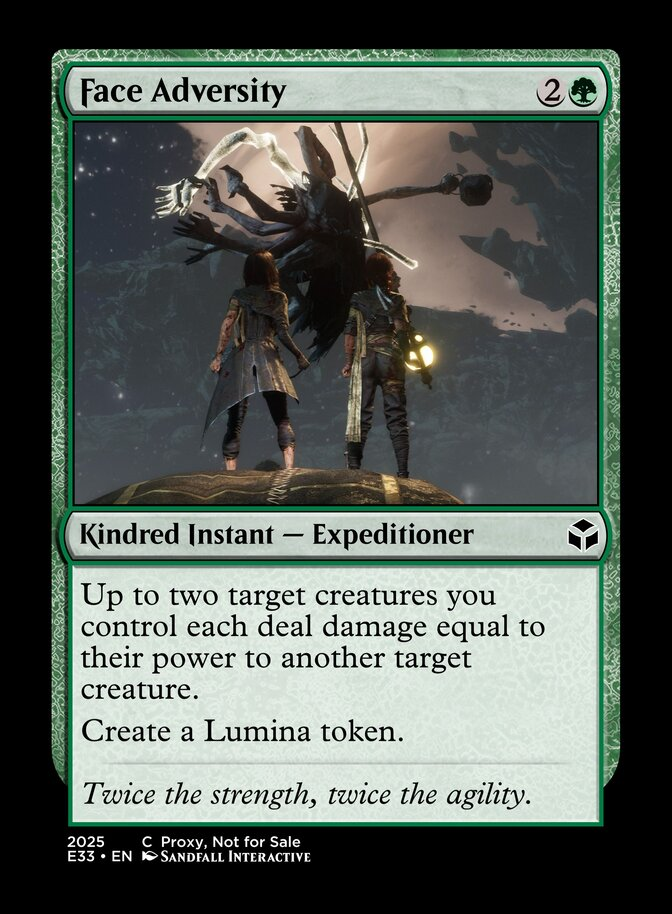
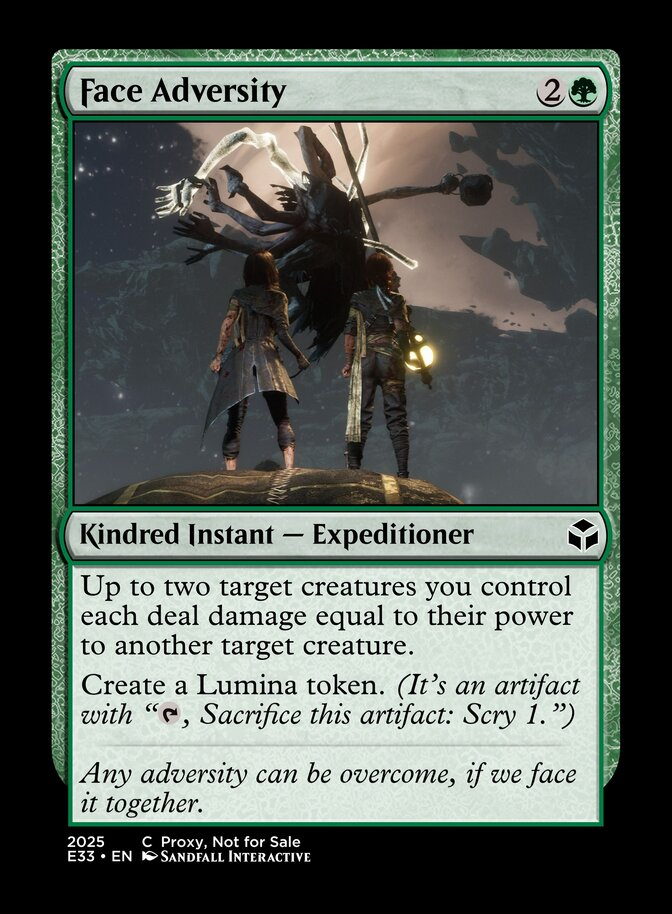
Face Advertisty: Update flavor text and add Lumina token reminder text.

Changed region(s): [[0.125, 0.6127, 0.875, 0.8884]]

diff --git a/design/GREEN.md b/design/GREEN.md
@@ -1,6 +1,6 @@
 # Cards
 
-> Last generated: 21/1/2026 7:31:55 am
+> Last generated: 26/1/2026 1:44:33 am
 
 ## Abbest
 
@@ -334,9 +334,9 @@ It may not be glamorous, but truly essential work rarely is. Doesn’t make it a
 2G
 Kindred Instant - Expeditioner
 Up to two target creatures you control each deal damage equal to their power to another target creature.
-Create a Lumina token.
+Create a Lumina token. (It's an artifact with "{T}, Sacrifice this artifact: Scry 1.")
 ---
-Twice the strength, twice the agility.
+Any adversity can be overcome, if we face it together.
 ```
 
 [card implementation](../custom/cards/f/face_adversity.txt)
@@ -345,6 +345,7 @@ Twice the strength, twice the agility.
 
  - Flavorful (based on art) [removal / combat trick] reprint
  - 14/01/2026: Renamed from Band Together to Face Adversity so we can tack on a Lumina token bonus.
+ - 26/01/2026: Updated flavor text.
 
 ## Farseek
 
